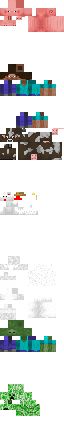
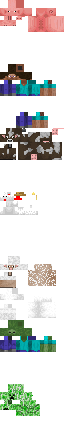
Fix wooly sheep covering its face and feet
geometry.sheep inherits geometry.sheep.sheared, but resolve_geometry
replaced parent bones outright so only the wool overlay cubes survived.
Bedrock a:b inheritance merges same-named bones field-by-field and layers
child cubes over the parent's; honour that (plus "reset", and don't leak
neverRender/mirror/texture size into children that bring their own
geometry) so the sheared face, body and legs render under the wool.

The sheared-skin texels (face, lower legs) are stored as alpha=3 in
sheep.tga — an authoring layer marker, since Bedrock entity materials are
opaque. On the non-framebuffer path they blended ~1% and their depth
writes occluded the wool behind, punching sky-visible holes. Promote any
nonzero skin alpha to opaque on import; a=0 stays cutout.

Generated with [Devin](https://devin.ai)

Changed region(s): [[0.4375, 0.5625, 0.875, 0.6562], [0.0, 0.5938, 0.25, 0.6562]]

diff --git a/include/common/mob_models_gen.hpp b/include/common/mob_models_gen.hpp
@@ -55,31 +55,30 @@ static const MobCubeDef mob_cubes_player[] = {
     { { -4.0f, 12.0f, -2.0f }, { 8.0f, 12.0f, 4.0f }, { 16.0f, 16.0f }, 0.0f, 0 },
     { { -4.0f, 24.0f, -4.0f }, { 8.0f, 8.0f, 8.0f }, { 0.0f, 0.0f }, 0.0f, 0 },
     { { -4.0f, 24.0f, -4.0f }, { 8.0f, 8.0f, 8.0f }, { 32.0f, 0.0f }, 0.5f, 0 },
-    { { 4.0f, 12.0f, -2.0f }, { 4.0f, 12.0f, 4.0f }, { 32.0f, 48.0f }, 0.0f, 0 },
-    { { 4.0f, 12.0f, -2.0f }, { 4.0f, 12.0f, 4.0f }, { 48.0f, 48.0f }, 0.25f, 0 },
     { { -8.0f, 12.0f, -2.0f }, { 4.0f, 12.0f, 4.0f }, { 40.0f, 16.0f }, 0.0f, 0 },
-    { { -8.0f, 12.0f, -2.0f }, { 4.0f, 12.0f, 4.0f }, { 40.0f, 32.0f }, 0.25f, 0 },
-    { { -0.1f, 0.0f, -2.0f }, { 4.0f, 12.0f, 4.0f }, { 16.0f, 48.0f }, 0.0f, 0 },
-    { { -0.1f, 0.0f, -2.0f }, { 4.0f, 12.0f, 4.0f }, { 0.0f, 48.0f }, 0.25f, 0 },
+    { { 4.0f, 12.0f, -2.0f }, { 4.0f, 12.0f, 4.0f }, { 32.0f, 48.0f }, 0.0f, 0 },
     { { -3.9f, 0.0f, -2.0f }, { 4.0f, 12.0f, 4.0f }, { 0.0f, 16.0f }, 0.0f, 0 },
+    { { -0.1f, 0.0f, -2.0f }, { 4.0f, 12.0f, 4.0f }, { 16.0f, 48.0f }, 0.0f, 0 },
+    { { 4.0f, 12.0f, -2.0f }, { 4.0f, 12.0f, 4.0f }, { 48.0f, 48.0f }, 0.25f, 0 },
+    { { -8.0f, 12.0f, -2.0f }, { 4.0f, 12.0f, 4.0f }, { 40.0f, 32.0f }, 0.25f, 0 },
+    { { -0.1f, 0.0f, -2.0f }, { 4.0f, 12.0f, 4.0f }, { 0.0f, 48.0f }, 0.25f, 0 },
     { { -3.9f, 0.0f, -2.0f }, { 4.0f, 12.0f, 4.0f }, { 0.0f, 32.0f }, 0.25f, 0 },
     { { -4.0f, 12.0f, -2.0f }, { 8.0f, 12.0f, 4.0f }, { 16.0f, 32.0f }, 0.25f, 0 },
 };
 static const MobBoneDef mob_bones_player[] = {
     { "root", -1, { 0.0f, 0.0f, 0.0f }, { 0.0f, 0.0f, 0.0f }, 0, 0, 0 },
-    { "waist", 0, { 0.0f, 12.0f, 0.0f }, { 0.0f, 0.0f, 0.0f }, 0, 0, 0 },
-    { "body", 1, { 0.0f, 24.0f, 0.0f }, { 0.0f, 0.0f, 0.0f }, 0, 0, 1 },
-    { "head", 2, { 0.0f, 24.0f, 0.0f }, { 0.0f, 0.0f, 0.0f }, 0, 1, 1 },
-    { "hat", 3, { 0.0f, 24.0f, 0.0f }, { 0.0f, 0.0f, 0.0f }, 0, 2, 1 },
-    { "leftArm", 2, { 5.0f, 22.0f, 0.0f }, { 0.0f, 0.0f, 0.0f }, 0, 3, 1 },
-    { "leftSleeve", 5, { 5.0f, 22.0f, 0.0f }, { 0.0f, 0.0f, 0.0f }, 0, 4, 1 },
-    { "rightArm", 2, { -5.0f, 22.0f, 0.0f }, { 0.0f, 0.0f, 0.0f }, 0, 5, 1 },
-    { "rightSleeve", 7, { -5.0f, 22.0f, 0.0f }, { 0.0f, 0.0f, 0.0f }, 0, 6, 1 },
-    { "leftLeg", 0, { 1.9f, 12.0f, 0.0f }, { 0.0f, 0.0f, 0.0f }, 0, 7, 1 },
-    { "leftPants", 9, { 1.9f, 12.0f, 0.0f }, { 0.0f, 0.0f, 0.0f }, 0, 8, 1 },
-    { "rightLeg", 0, { -1.9f, 12.0f, 0.0f }, { 0.0f, 0.0f, 0.0f }, 0, 9, 1 },
-    { "rightPants", 11, { -1.9f, 12.0f, 0.0f }, { 0.0f, 0.0f, 0.0f }, 0, 10, 1 },
-    { "jacket", 2, { 0.0f, 24.0f, 0.0f }, { 0.0f, 0.0f, 0.0f }, 0, 11, 1 },
+    { "body", 0, { 0.0f, 24.0f, 0.0f }, { 0.0f, 0.0f, 0.0f }, 0, 0, 1 },
+    { "head", 1, { 0.0f, 24.0f, 0.0f }, { 0.0f, 0.0f, 0.0f }, 0, 1, 1 },
+    { "hat", 2, { 0.0f, 24.0f, 0.0f }, { 0.0f, 0.0f, 0.0f }, 0, 2, 1 },
+    { "rightArm", 1, { -5.0f, 22.0f, 0.0f }, { 0.0f, 0.0f, 0.0f }, 0, 3, 1 },
+    { "leftArm", 1, { 5.0f, 22.0f, 0.0f }, { 0.0f, 0.0f, 0.0f }, 0, 4, 1 },
+    { "rightLeg", 0, { -1.9f, 12.0f, 0.0f }, { 0.0f, 0.0f, 0.0f }, 0, 5, 1 },
+    { "leftLeg", 0, { 1.9f, 12.0f, 0.0f }, { 0.0f, 0.0f, 0.0f }, 0, 6, 1 },
+    { "leftSleeve", 5, { 5.0f, 22.0f, 0.0f }, { 0.0f, 0.0f, 0.0f }, 0, 7, 1 },
+    { "rightSleeve", 4, { -5.0f, 22.0f, 0.0f }, { 0.0f, 0.0f, 0.0f }, 0, 8, 1 },
+    { "leftPants", 7, { 1.9f, 12.0f, 0.0f }, { 0.0f, 0.0f, 0.0f }, 0, 9, 1 },
+    { "rightPants", 6, { -1.9f, 12.0f, 0.0f }, { 0.0f, 0.0f, 0.0f }, 0, 10, 1 },
+    { "jacket", 1, { 0.0f, 24.0f, 0.0f }, { 0.0f, 0.0f, 0.0f }, 0, 11, 1 },
 };
 
 static const MobCubeDef mob_cubes_cow[] = {
@@ -124,20 +123,25 @@ static const MobBoneDef mob_bones_chicken[] = {
 };
 
 static const MobCubeDef mob_cubes_sheep[] = {
-    { { -3.0f, 16.0f, -12.0f }, { 6.0f, 6.0f, 6.0f }, { 0.0f, 32.0f }, 0.6f, 0 },
     { { -4.0f, 13.0f, -5.0f }, { 8.0f, 16.0f, 6.0f }, { 28.0f, 40.0f }, 1.75f, 0 },
+    { { -3.0f, 16.0f, -14.0f }, { 6.0f, 6.0f, 8.0f }, { 0.0f, 0.0f }, 0.0f, 0 },
+    { { -3.0f, 16.0f, -12.0f }, { 6.0f, 6.0f, 6.0f }, { 0.0f, 32.0f }, 0.6f, 0 },
+    { { -5.0f, 0.0f, 5.0f }, { 4.0f, 12.0f, 4.0f }, { 0.0f, 16.0f }, 0.0f, 0 },
     { { -5.0f, 6.0f, 5.0f }, { 4.0f, 6.0f, 4.0f }, { 0.0f, 48.0f }, 0.5f, 0 },
+    { { 1.0f, 0.0f, 5.0f }, { 4.0f, 12.0f, 4.0f }, { 0.0f, 16.0f }, 0.0f, 0 },
     { { 1.0f, 6.0f, 5.0f }, { 4.0f, 6.0f, 4.0f }, { 0.0f, 48.0f }, 0.5f, 0 },
+    { { -5.0f, 0.0f, -7.0f }, { 4.0f, 12.0f, 4.0f }, { 0.0f, 16.0f }, 0.0f, 0 },
     { { -5.0f, 6.0f, -7.0f }, { 4.0f, 6.0f, 4.0f }, { 0.0f, 48.0f }, 0.5f, 0 },
+    { { 1.0f, 0.0f, -7.0f }, { 4.0f, 12.0f, 4.0f }, { 0.0f, 16.0f }, 0.0f, 0 },
     { { 1.0f, 6.0f, -7.0f }, { 4.0f, 6.0f, 4.0f }, { 0.0f, 48.0f }, 0.5f, 0 },
 };
 static const MobBoneDef mob_bones_sheep[] = {
-    { "head", -1, { 0.0f, 18.0f, -8.0f }, { 0.0f, 0.0f, 0.0f }, 0, 0, 1 },
-    { "body", -1, { 0.0f, 19.0f, 2.0f }, { -90.0f, 0.0f, 0.0f }, 0, 1, 1 },
-    { "leg0", -1, { -3.0f, 12.0f, 7.0f }, { 0.0f, 0.0f, 0.0f }, 0, 2, 1 },
-    { "leg1", -1, { 3.0f, 12.0f, 7.0f }, { 0.0f, 0.0f, 0.0f }, 0, 3, 1 },
-    { "leg2", -1, { -3.0f, 12.0f, -5.0f }, { 0.0f, 0.0f, 0.0f }, 0, 4, 1 },
-    { "leg3", -1, { 3.0f, 12.0f, -5.0f }, { 0.0f, 0.0f, 0.0f }, 0, 5, 1 },
+    { "body", -1, { 0.0f, 19.0f, 2.0f }, { -90.0f, 0.0f, 0.0f }, 0, 0, 1 },
+    { "head", -1, { 0.0f, 18.0f, -8.0f }, { 0.0f, 0.0f, 0.0f }, 0, 1, 2 },
+    { "leg0", -1, { -3.0f, 12.0f, 7.0f }, { 0.0f, 0.0f, 0.0f }, 0, 3, 2 },
+    { "leg1", -1, { 3.0f, 12.0f, 7.0f }, { 0.0f, 0.0f, 0.0f }, 0, 5, 2 },
+    { "leg2", -1, { -3.0f, 12.0f, -5.0f }, { 0.0f, 0.0f, 0.0f }, 0, 7, 2 },
+    { "leg3", -1, { 3.0f, 12.0f, -5.0f }, { 0.0f, 0.0f, 0.0f }, 0, 9, 2 },
 };
 
 static const MobCubeDef mob_cubes_zombie[] = {
@@ -176,10 +180,10 @@ static const MobBoneDef mob_bones_creeper[] = {
 
 static const MobModelDef mob_models[ MOB_MODEL_COUNT ] = {
     { mob_bones_pig, mob_cubes_pig, 6, 7, 64, 32 },
-    { mob_bones_player, mob_cubes_player, 14, 12, 64, 64 },
+    { mob_bones_player, mob_cubes_player, 13, 12, 64, 64 },
     { mob_bones_cow, mob_cubes_cow, 6, 9, 64, 32 },
     { mob_bones_chicken, mob_cubes_chicken, 8, 8, 64, 32 },
-    { mob_bones_sheep, mob_cubes_sheep, 6, 6, 64, 64 },
+    { mob_bones_sheep, mob_cubes_sheep, 6, 11, 64, 64 },
     { mob_bones_zombie, mob_cubes_zombie, 6, 6, 64, 32 },
     { mob_bones_creeper, mob_cubes_creeper, 6, 6, 64, 32 },
 };

diff --git a/tools/mob_import.py b/tools/mob_import.py
@@ -103,6 +103,7 @@ def load_geometries(path):
             geos[ident] = {
                 "tw": int(desc.get("texture_width", 64)),
                 "th": int(desc.get("texture_height", 64)),
+                "tex_set": "texture_width" in desc or "texture_height" in desc,
                 "bones": g.get("bones", []),
                 "parent": parent,
             }
@@ -118,6 +119,7 @@ def load_geometries(path):
             geos[ident] = {
                 "tw": int(g.get("texturewidth", 64)),
                 "th": int(g.get("textureheight", 64)),
+                "tex_set": "texturewidth" in g or "textureheight" in g,
                 "bones": g.get("bones", []),
                 "parent": parent,
             }
@@ -125,22 +127,51 @@ def load_geometries(path):
 
 
 def resolve_geometry(geos, ident):
-    # Resolve a:b inheritance: bones merge by name (child wins), texture size
-    # inherits when the child leaves it at the default.
+    # Resolve a:b inheritance. A same-named child bone merges into the parent
+    # bone field-by-field (child wins), and its cubes are ADDED to the
+    # inherited ones — that's how the sheep's wool cubes layer over the
+    # sheared body so the face and leg bottoms still show. "reset": true
+    # drops the inherited bone outright (armor pieces strip the body to keep
+    # only their own part). A child cube at the exact same box replaces the
+    # parent's cube there so coincident twins never z-fight.
     if ident not in geos:
         fail("geometry id %s not found" % ident)
     geo = geos[ident]
     if geo["parent"] is None:
         return geo
     parent = resolve_geometry(geos, geo["parent"])
-    if "texturewidth" not in geo and geo["tw"] == 64:
+    if not geo["tex_set"]:
         geo["tw"] = parent["tw"]
-    if "textureheight" not in geo and geo["th"] == 64:
         geo["th"] = parent["th"]
-    parent_bones = {b["name"]: b for b in parent["bones"]}
-    for b in geo["bones"]:
-        parent_bones.pop(b["name"], None)
-    geo["bones"] = geo["bones"] + list(parent_bones.values())
+    bones = [dict(b) for b in parent["bones"]]
+    order = {b["name"]: i for i, b in enumerate(bones)}
+    for child in geo["bones"]:
+        name = child["name"]
+        if name not in order:
+            order[name] = len(bones)
+            bones.append(child)
+            continue
+        base = bones[order[name]]
+        if child.get("reset"):
+            merged = {k: base[k] for k in ("name", "parent", "pivot", "rotation", "bind_pose_rotation") if k in base}
+            merged.update({k: v for k, v in child.items() if k != "reset"})
+        else:
+            boxes = {(tuple(c["origin"]), tuple(c["size"])) for c in child.get("cubes", [])}
+            merged = dict(base)
+            merged.update(child)
+            merged["cubes"] = [c for c in base.get("cubes", []) if (tuple(c["origin"]), tuple(c["size"])) not in boxes] + child.get(
+                "cubes", []
+            )
+            if child.get("cubes"):
+                # The child brings its own renderable content, so rendering
+                # flags of the parent's slot must not leak in (the player's
+                # hat over humanoid's hidden hat bone; custom's explicitly
+                # mapped left limbs over humanoid's mirrored right limbs).
+                for flag in ("neverRender", "mirror"):
+                    if flag not in child:
+                        merged.pop(flag, None)
+        bones[order[name]] = merged
+    geo["bones"] = bones
     geo["parent"] = None
     return geo
 
@@ -244,6 +275,11 @@ def main():
             img = Image.open(skin_path).convert("RGBA")
             if img.width > LAYER_SIZE or img.height > LAYER_SIZE:
                 fail("skin %s is %dx%d, max is 64x64" % (s, img.width, img.height))
+            # Bedrock renders entity skins with an opaque material: nonzero
+            # alpha bytes are authoring layer markers (sheep.tga stores its
+            # undercoat/face texels as a=3), not real transparency. Promote
+            # them to opaque — the renderer's a==0 cutout keeps true holes.
+            img.putalpha(img.getchannel("A").point(lambda a: 255 if a else 0))
             base = os.path.splitext(os.path.basename(s))[0]
             skin_name = e["name"] if base == e["name"] else "%s_%s" % (e["name"], base)
             atlas.paste(img, (0, skins.index(skin_name) * LAYER_SIZE))

diff --git a/docs/mobs.md b/docs/mobs.md
@@ -91,9 +91,12 @@ Adding a mob:
 2. `make mobs-import` runs `tools/mob_import.py` →
    `include/common/mob_models_gen.hpp` + `bitmaps/mobs.png`. Output is
    deterministic (byte-identical reruns); the importer handles geo.json
-   1.8 (`"geometry.a:geometry.b"` inheritance) and 1.12, box UVs only
-   (per-face UVs are rejected), bone mirror/pivot/rotation, and pads each
-   skin into one 64x64 layer of the atlas.
+   1.8 and 1.12, box UVs only (per-face UVs are rejected), bone
+   mirror/pivot/rotation, and pads each skin into one 64x64 layer of the
+   atlas. `"geometry.a:geometry.b"` inheritance merges bones by name:
+   a same-named child bone's cubes layer on top of the parent's (that's
+   how the sheep's wool sits over the sheared body — `reset: true` on a
+   bone drops the inherited content instead).
 3. Add a `MobTypeDef` row in `src/common/mob_types.cpp` (+ `MOB_*` enum in
    `mob_types.hpp`): model/skin bindings, hitbox, health,
    walk/panic/chase speeds, `fall_cap`, `attack_damage`, drops, sound
@@ -112,7 +115,10 @@ layer index into `mobs.png`, `MK_TEXTURE(mobs, 64, 64*MOB_SKIN_COUNT,
 The loader maps skin pixel `(px, py)` to UV `(1 - px/64, 1 - py/64)` —
 vertical flip from the texture load plus a per-tile X mirror; mirrored
 cubes also swap left/right face rects (`mob_face_rect` in
-`include/common/mob_uv.hpp`, also unit-tested in `test_mobs`).
+`include/common/mob_uv.hpp`, also unit-tested in `test_mobs`). Skin alpha
+is normalized on import: Bedrock renders entity skins opaque, so nonzero
+alpha (e.g. sheep.tga's a=3 undercoat/face texels) is promoted to 255 —
+only true a=0 texels stay cutout.
 
 Persistence: each chunk's mobs live in `mobs_x_y_z` beside the
 `chunk_x_y_z`/`chest_x_y_z` files — `u32 record_size`, `u32 count`, then

diff --git a/.devin/skills/add-mob/SKILL.md b/.devin/skills/add-mob/SKILL.md
@@ -20,9 +20,12 @@ Full behaviour/rendering reference: `docs/mobs.md`.
 2. `make mobs-import` runs `tools/mob_import.py` →
    `include/common/mob_models_gen.hpp` + `bitmaps/mobs.png`. Output is
    deterministic (byte-identical reruns); the importer handles geo.json
-   1.8 (`"geometry.a:geometry.b"` inheritance) and 1.12, box UVs only
-   (per-face UVs are rejected), bone mirror/pivot/rotation, and pads each
-   skin into one 64x64 layer of the atlas.
+   1.8 and 1.12, box UVs only (per-face UVs are rejected), bone
+   mirror/pivot/rotation, and pads each skin into one 64x64 layer of the
+   atlas. `"geometry.a:geometry.b"` inheritance merges bones by name:
+   a same-named child bone's cubes layer on top of the parent's (that's
+   how the sheep's wool sits over the sheared body — `reset: true` on a
+   bone drops the inherited content instead).
 3. Add a `MobTypeDef` row in `src/common/mob_types.cpp` (+ `MOB_*` enum in
    `mob_types.hpp`): model/skin bindings, hitbox, health,
    walk/panic/chase speeds, `fall_cap`, `attack_damage`, drops, sound
@@ -38,7 +41,9 @@ Full behaviour/rendering reference: `docs/mobs.md`.
 Skin atlas convention: each skin is one 64x64 layer of `mobs.png`
 (`MOB_SKIN_*` is the layer index, NEAREST + no mipmaps). UV mapping and
 the left/right swap for mirrored cubes: `mob_face_rect` in
-`include/common/mob_uv.hpp`.
+`include/common/mob_uv.hpp`. The importer promotes any nonzero skin alpha
+to opaque (Bedrock entity materials ignore alpha; e.g. sheep.tga uses a=3
+as an undercoat marker) — a=0 stays cutout.
 
 ## Testing it
 
